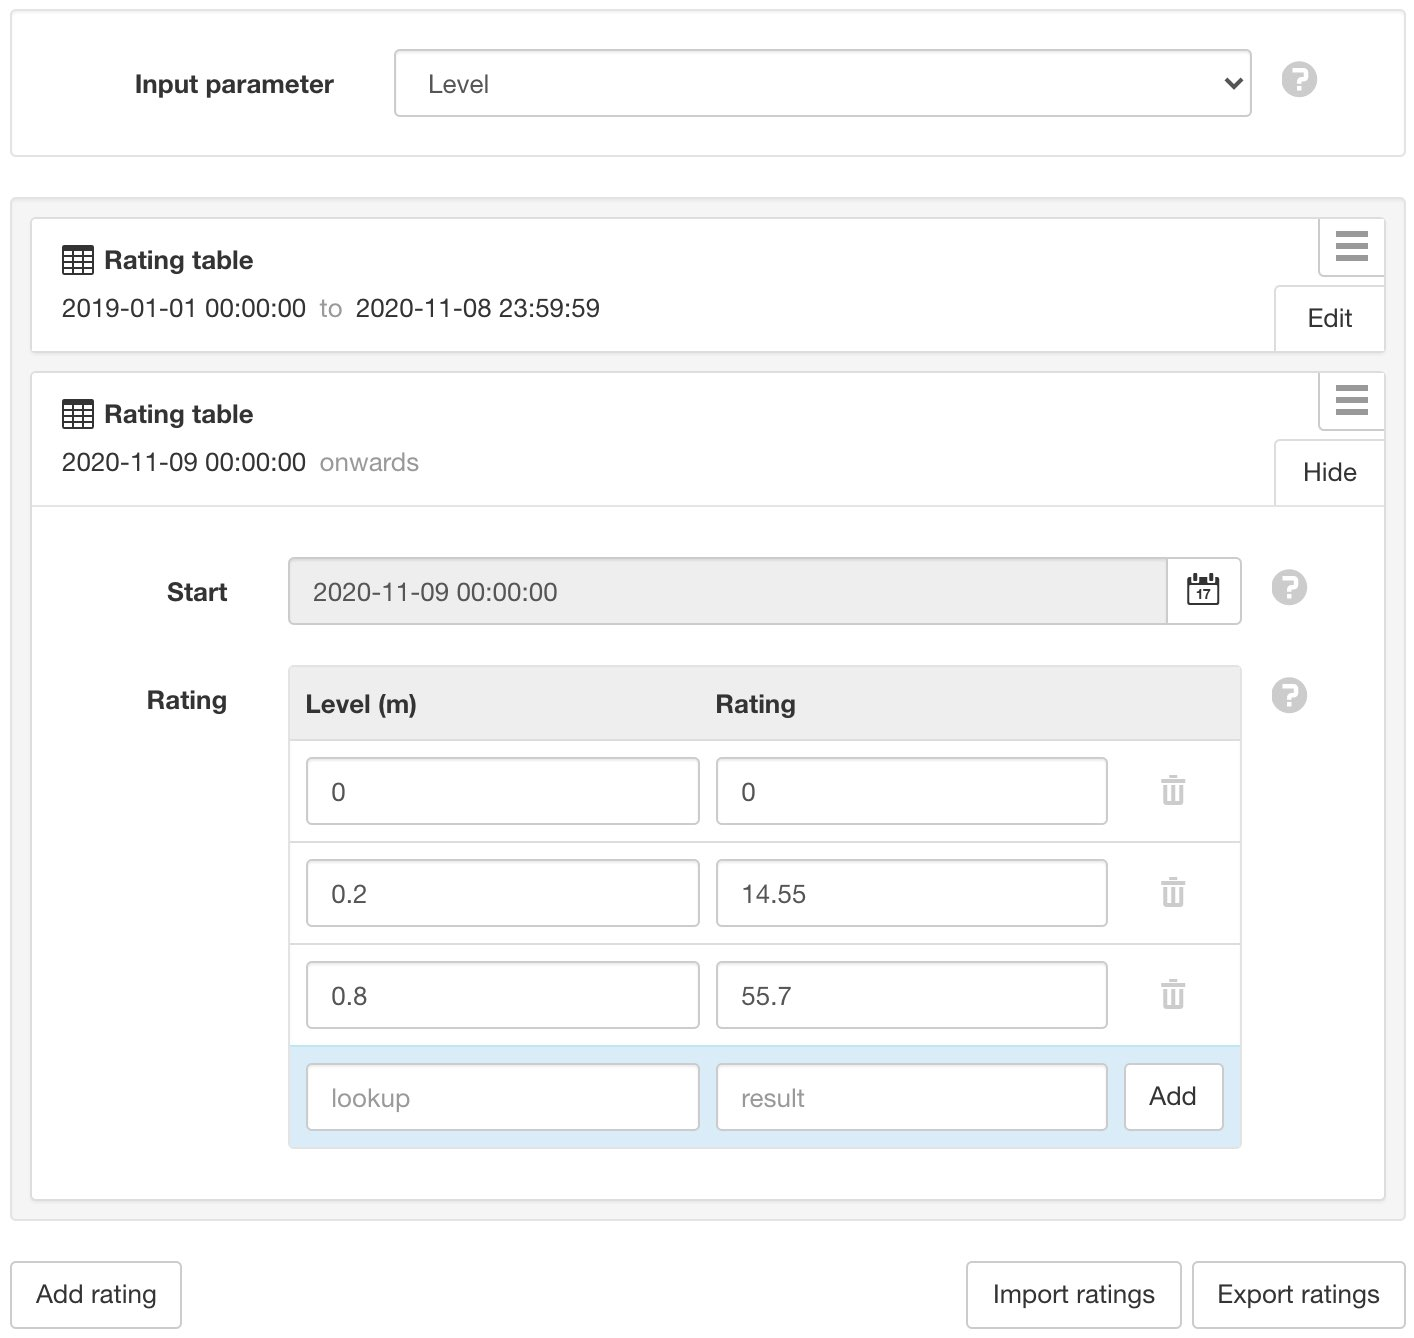
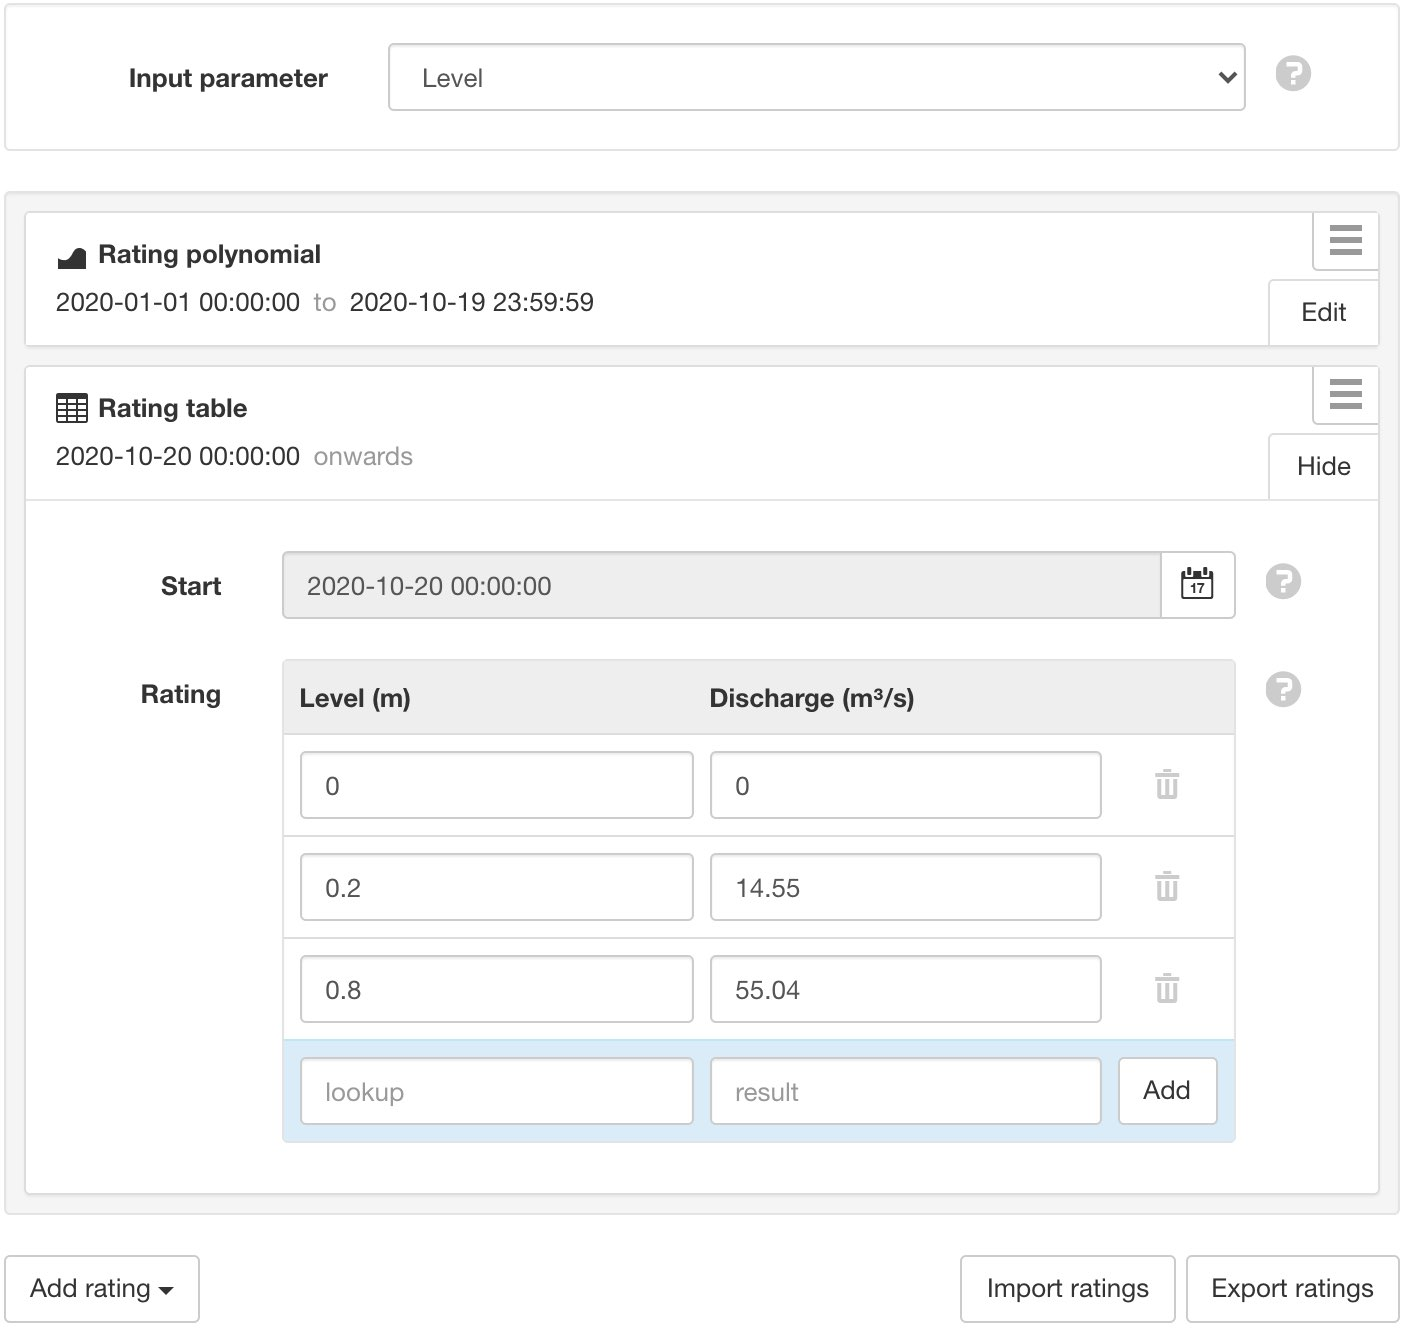
update rating polynomial

diff --git a/source/api/resources/nodes.rst b/source/api/resources/nodes.rst
@@ -914,7 +914,7 @@ Multiple ratings can be added, with the *startTime* used to determine the data r
     ================================    =========   ===========================================================================
     **inputNodeId**                     ObjectId    Node *_id* to be used as the input for the rating calculations. 
                                                     Must be a Number parameter in the same Workspace as this Rating parameter.
-    **ratings**                         Array       Rating table and rating polynomial objects (as documented below).
+    **ratings**                         Array       Rating table and rating equation objects (as documented below).
     ================================    =========   ===========================================================================
 
 
@@ -942,14 +942,16 @@ Multiple ratings can be added, with the *startTime* used to determine the data r
     :class: table-fluid
 
     ================================    =========   ===========================================================================
-    Rating polynomial                   Type        Description
+    Rating equation                     Type        Description
     ================================    =========   ===========================================================================
     **startTime**                       Time        *Required*. :ref:`ISO8601<time-format-iso8601>` timestamp of the start 
                                                     range this rating will be applied. End range is automatically set to the 
                                                     startTime of the next most recent rating or will continue to apply to 
                                                     new data if no other ratings are specified.
+
+    **equationType**                    String      *POLYNOMIAL* is currently the only supported rating equation.
     
-    **coefficients**                    Object      Map of *coefficient* key and corresponding *value*. 
+    **coefficients**                    Object      Map of *coefficient* key and corresponding *value*.
                                                     The coefficient keys must be single letters, ordered alphabetically. 
     ================================    =========   ===========================================================================
 
@@ -978,6 +980,7 @@ Example rating configuration::
                 },
                 {
                     "startTime": "2020-11-01T11:00:00Z",
+                    "equationType": "POLYNOMIAL",
                     "coefficients": {
                         "a": 1.1,
                         "b": 2.5,
@@ -992,7 +995,7 @@ Example rating configuration::
 
 In this example, Discharge is calculated using 2 rating lookup tables and 1 rating polynomial. The *inputNodeId* is set to the *_id* of the *Water Level* parameter. 
 A water level value of **0.1** will result in an output value of **9.8** for data at the beginning of 2020. Water level **0.1** will result in an
-output value of **7.8** for data in the range starting 24th October. From 1st November onwards, a polynomial regression will be applied using the coefficients **a, b, c, d, e**.
+output value of **7.8** for data in the range starting 24th October. From 1st November onwards, a polynomial equation will be applied using the coefficients **a, b, c, d, e**.
 
 .. only:: not latex
 

diff --git a/source/reference/config/ratings.rst b/source/reference/config/ratings.rst
@@ -46,10 +46,10 @@ Columns (separated by comma ',') must use this strict format.
                                                 lookup value and *15* is the result.
 
     |         a:1.1                             **Polynomial**: Columns 3 onwards specifies
-                                                the coefficients. Each column must use the 
-                                                format **<coefficient>:<value>**. The 
-                                                coefficient must be a single letter, ordered
-                                                alphabetically. 
+                                                the coefficients of a polynomial equation. 
+                                                Each column must use the format 
+                                                **<coefficient>:<value>**. The coefficient must 
+                                                be a single letter, ordered alphabetically. 
                                                 In the example shown *a* is the coefficient  
                                                 and *1.1* is its value. 
     ======    ==============================    ===============================================

diff --git a/source/topics/nodes/parameter/index.rst b/source/topics/nodes/parameter/index.rst
@@ -448,7 +448,7 @@ Rating parameters use an *Input parameter* and one or more ratings to caculate i
 **Rating tables** should have multiple rows specifying an input *lookup* value and corresponding *result* value. 
 Values that fall between each input lookup will be derived by linear interpolation. 
 
-**Rating polynomials** allow multiple coefficients to be defined which are used to calculate a value using a polynomial regression. 
+**Rating equations** allow multiple coefficients to be defined which are used to calculate a value using a polynomial equation. 
 
 Multiple ratings can be added, with the *start* time used to determine the data range each rating will apply.
 
